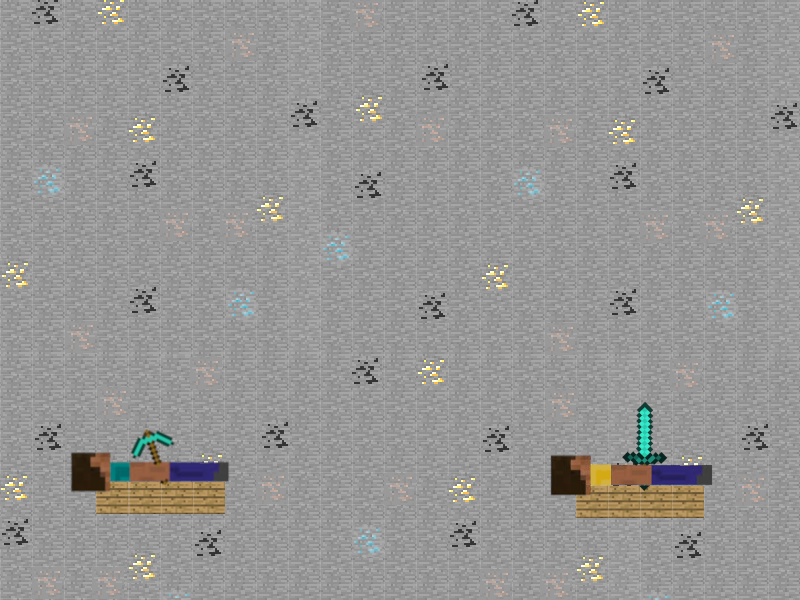
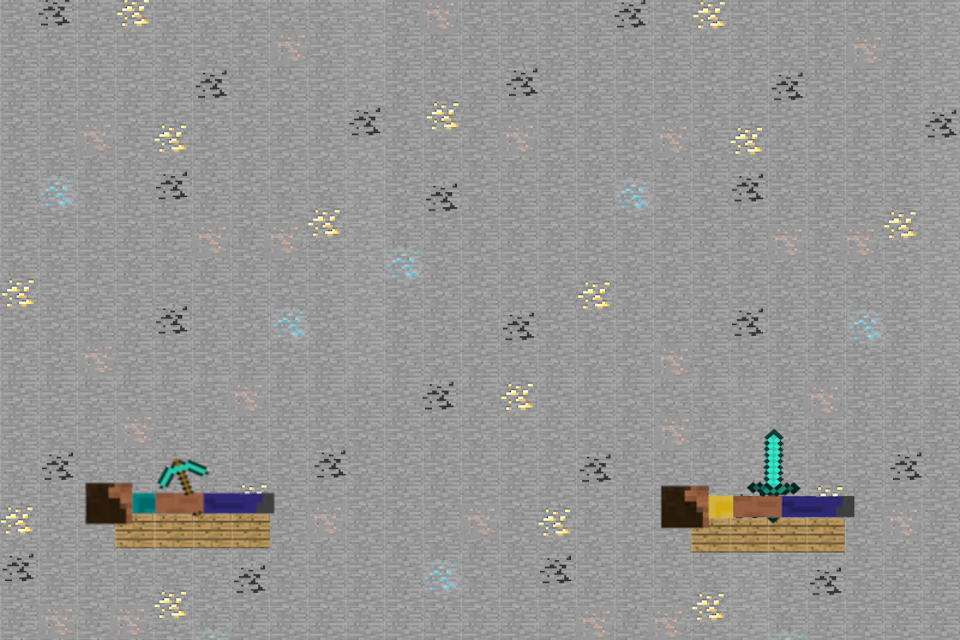
nic fick

diff --git a/Website-P-Seminar/Caverunner/js/play.js b/Website-P-Seminar/Caverunner/js/play.js
@@ -80,8 +80,30 @@ var playState = {
 	} else {
 		var schule = false;
 	}
-	console.log('success')
+
 },
+
+pause: function() {
+	game.paused = true;
+	this.input.disabled = true;
+
+	this.game.physics.gravity.y = 0;
+
+	player1.body.velocity.x = 0;
+
+	player1.body.velocity.y = 0;
+
+	player2.body.velocity.x = 0;
+
+	player2.body.velocity.y = 0;
+
+	player3.body.velocity.x = 0;
+
+	player3.body.velocity.y = 0;
+
+		console.log('success')
+},
+
 	create: function () {
 		var location = this.getlocation();
 		this.game.time.events.repeat(Phaser.Timer.SECOND * 6.4, 10000, this.timer1Up, this);
@@ -116,7 +138,7 @@ var playState = {
 		for (var i = 0; i < 1000; i++)
 		{
 			var unten = unten + i;
-			unten = platforms.create(i*300, 600,'flaeche');
+			unten = platforms.create(i*300, 639.9,'flaeche');
 			unten.body.immovable = true;
 		}
 		for (var i = 0; i < 1000; i++)
@@ -222,6 +244,7 @@ var playState = {
 		ButtonGravity = game.input.keyboard.addKey(Phaser.Keyboard.N);
 
 		var bau = this.platform3();
+		var pausebutton = this.game.add.button(870, 30, 'pausebutton', this.pause, this, 1, 0);
 	},
 
 
@@ -605,113 +628,113 @@ var playState = {
 	{
 		var testen = this.schule();
 
-		block1 = platforms.create(c * 960, 18 * 32,'2b');
+		block1 = platforms.create(c * 960, 19 * 32,'2b');
 
 		block1.body.immovable = true;
 
-		block2 = platforms.create(c * 960 + 5 * 32, 18 * 32,'2b');
+		block2 = platforms.create(c * 960 + 5 * 32, 19 * 32,'2b');
 
 		block2.body.immovable = true;
 
-		block3 = platforms.create(c * 960 + 12 * 32, 18 * 32,'1');
+		block3 = platforms.create(c * 960 + 12 * 32, 19 * 32,'1');
 
 		block3.body.immovable = true;
 
-		block4 = platforms.create(c * 960 + 3 * 32, 17 * 32,'1');
+		block4 = platforms.create(c * 960 + 3 * 32, 18 * 32,'1');
 
 		block4.body.immovable = true;
 
-		block5 = platforms.create(c * 960 + 8 * 32, 17 * 32,'1');
+		block5 = platforms.create(c * 960 + 8 * 32, 18 * 32,'1');
 
 		block5.body.immovable = true;
 
-		block6 = platforms.create(c * 960 + 13 * 32, 16 * 32,'2b');
+		block6 = platforms.create(c * 960 + 13 * 32, 17 * 32,'2b');
 
 		block6.body.immovable = true;
 
-		block7 = platforms.create(c * 960 + 4 * 32, 15 * 32,'2b');
+		block7 = platforms.create(c * 960 + 4 * 32, 16 * 32,'2b');
 
 		block7.body.immovable = true;
 
-		block8 = platforms.create(c * 960 + 0 * 32, 13 * 32,'2h');
+		block8 = platforms.create(c * 960 + 0 * 32, 14 * 32,'2h');
 
 		block8.body.immovable = true;
 
-		block9 = platforms.create(c * 960 + 8 * 32, 14 * 32,'1');
+		block9 = platforms.create(c * 960 + 8 * 32, 15 * 32,'1');
 
 		block9.body.immovable = true;
 
-		block10 = platforms.create(c * 960 + 12 * 32, 14 * 32,'1');
+		block10 = platforms.create(c * 960 + 12 * 32, 15 * 32,'1');
 
 		block10.body.immovable = true;
 
-		block11 = platforms.create(c * 960 + 2 * 32, 13 * 32,'1');
+		block11 = platforms.create(c * 960 + 3 * 32, 14 * 32,'1');
 
 		block11.body.immovable = true;
 
 	if (schule == true) {
-		klausur1 = klausuren.create(c * 960 + 4 * 32, 12 * 32, 'klausur');
+		klausur1 = klausuren.create(c * 960 + 4 * 32, 13 * 32, 'klausur');
 	} else if (schule == false) {
-		boost1 = booster.create(c * 960 + 4 * 32, 12 * 32, 'booster');
+		boost1 = booster.create(c * 960 + 4 * 32, 13 * 32, 'booster');
 	}
 
-		block12 = platforms.create(c * 960 + 7 * 32, 11 * 32,'2b');
+		block12 = platforms.create(c * 960 + 7 * 32, 12 * 32,'2b');
 
 		block12.body.immovable = true;
 
-		block13 = platforms.create(c * 960 + 3 * 32, 8 * 32,'3h');
+		block13 = platforms.create(c * 960 + 4 * 32, 9 * 32,'3h');
 
 		block13.body.immovable = true;
 
-		block14 = platforms.create(c * 960 + 12 * 32, 10 * 32,'3b');
+		block14 = platforms.create(c * 960 + 12 * 32, 11 * 32,'3b');
 
 		block14.body.immovable = true;
 
-		block15 = platforms.create(c * 960 + 1 * 32, 9* 32,'3b');
+		block15 = platforms.create(c * 960 + 1 * 32, 10* 32,'3b');
 
 		block15.body.immovable = true;
 
-		block16 = platforms.create(c * 960 + 6 * 32, 8 * 32,'2h');
+		block16 = platforms.create(c * 960 + 6 * 32, 9 * 32,'2h');
 
 		block16.body.immovable = true;
 
-		block17 = platforms.create(c * 960 + 7 * 32, 8 * 32,'1');
+		block17 = platforms.create(c * 960 + 7 * 32, 9 * 32,'1');
 
 		block17.body.immovable = true;
 
-		block18 = platforms.create(c * 960 + 8 * 32, 8 * 32,'3b');
+		block18 = platforms.create(c * 960 + 8 * 32, 9 * 32,'3b');
 
 		block18.body.immovable = true;
 
-		block19 = platforms.create(c * 960 + 4 * 32, 7 * 32,'2b');
+		block19 = platforms.create(c * 960 + 4 * 32, 7 * 32,'2h');
 
 		block19.body.immovable = true;
 
-		block20 = platforms.create(c * 960 + 1 * 32, 5 * 32,'1');
+		block20 = platforms.create(c * 960 + 1 * 32, 6 * 32,'1');
 
 		block20.body.immovable = true;
 
-		block21 = platforms.create(c * 960 + 8 * 32, 5 * 32,'2b');
+		block21 = platforms.create(c * 960 + 8 * 32, 6 * 32,'2b');
 
 		block21.body.immovable = true;
 
-		block22 = platforms.create(c * 960 + 13 * 32, 5 * 32,'2b');
+		block22 = platforms.create(c * 960 + 13 * 32, 6 * 32,'2b');
 
 		block22.body.immovable = true;
 
-		block23 = platforms.create(c * 960 + 0 * 32, 3 * 32,'2h');
+		block23 = platforms.create(c * 960 + 0 * 32, 4 * 32,'2h');
 
 		block23.body.immovable = true;
 
-		block24 = platforms.create(c * 960 + 6 * 32, 4 * 32,'1');
+		block24 = platforms.create(c * 960 + 6 * 32, 5 * 32,'1');
 
 		block24.body.immovable = true;
 
-		block25 = platforms.create(c * 960 + 11 * 32, 4 * 32,'1');
+		block25 = platforms.create(c * 960 + 11 * 32, 4 * 32,'2h');
 
 		block25.body.immovable = true;
 
-		block26 = platforms.create(c * 960 + 5 * 32, 3 * 32,'2b');
+		block26 = platforms.create(c * 960 + 5 * 32, 4 * 32,'2b');
 
 		block26.body.immovable = true;
 
@@ -720,12 +743,12 @@ var playState = {
 		block27.body.immovable = true;
 
 	if (schule == true) {
-	klausur1 = klausuren.create(c * 960 + 6 * 32, 2 * 32, 'klausur');
+	klausur1 = klausuren.create(c * 960 + 6 * 32, 3 * 32, 'klausur');
 } else if (schule == false) {
-	boost1 = booster.create(c * 960 + 6 * 32, 2 * 32, 'booster');
+	boost1 = booster.create(c * 960 + 6 * 32, 3 * 32, 'booster');
 }
 
-		block28 = platforms.create(c * 960 + 7 * 32, 1 * 32,'1');
+		block28 = platforms.create(c * 960 + 7 * 32, 2 * 32,'1');
 
 		block28.body.immovable = true;
 
@@ -749,6 +772,9 @@ var playState = {
 
 		block33.body.immovable = true;
 
+		block33 = platforms.create(c * 960 + 10 * 32, 19 * 32,'1');
+
+		block33.body.immovable = true;
 		c += 1;
 
 		timer1 = 0;

diff --git a/Website-P-Seminar/Caverunner/js/menu.js b/Website-P-Seminar/Caverunner/js/menu.js
@@ -6,7 +6,7 @@
   create: function () {
     var menuback = game.add.image(0, 0, 'backgroundmenu');
     //Hier erscheint dann der Name des SPiels
-    var nameLabel = game.add.text(100, 150, "Caverunner", {font: "100px Courier", fill: "#fcbc38"});
+    var nameLabel = game.add.text(200, 150, "Caverunner", {font: "100px Courier", fill: "#fcbc38"});
     //hier wird der playbutton eingefügt, ist im moment noch hässlich aber nur zum testen
   //  var button = game.add.button(game.world.centerX = 100, 300, "playbutton", this.actionOnclick, this);
 
@@ -20,7 +20,7 @@
     //var pkey = game.input.keyboard.addKey(Phaser.Keyboard.P);
     //pkey.onDown.addOnce(this.start, this);
 
-     var playButton = this.game.add.button(370, 300, 'playbutton', this.start, this, 1, 0);
+     var playButton = this.game.add.button(450, 300, 'playbutton', this.start, this, 1, 0);
   //var location = this.getlocation();
 
 },

diff --git a/Website-P-Seminar/Caverunner/js/gameover.js b/Website-P-Seminar/Caverunner/js/gameover.js
@@ -11,8 +11,8 @@ var gameoverState = {
     localStorage.setItem(localStorageName, highScore);
     var backOver = game.add.image(0, 0, 'backgroundgameover');
     var text = game.add.text(140, 110, "Game Over\n\nDein score: " + score + "\nBest score: " + highScore , {font: '50px Verdana',  fill: '	#000'});
-    var restartButton = this.game.add.button(370, 340, 'restartbutton', this.restart, this, 1, 0);
-    var menuButton = this.game.add.button(370, 420, 'menubutton', this.backto, this, 1, 0);
+    var restartButton = this.game.add.button(450, 340, 'restartbutton', this.restart, this, 1, 0);
+    var menuButton = this.game.add.button(450, 420, 'menubutton', this.backto, this, 1, 0);
   },
 restart: function() {
     game.state.start("play");

diff --git a/Website-P-Seminar/index.html b/Website-P-Seminar/index.html
@@ -74,7 +74,7 @@
       <div class="tm-page-content-width tm-flex-col tm-gallery-content">
         <div class="tm-content-box-left">
           <h2 class="tm-section-title tm-blue-text">CAVERUNNER</h2>
-          <iframe height="620" width="820" src="Caverunner/index.html" frameborder="0">
+          <iframe height="660" width="980" src="Caverunner/index.html" frameborder="0">
             <a href="Caverunner/index.html">Sorry ging nicht </a>
           </iframe>
         </div>

diff --git a/Website-P-Seminar/Caverunner/js/preload.js b/Website-P-Seminar/Caverunner/js/preload.js
@@ -42,7 +42,8 @@ preload: function () {
     game.load.spritesheet('playbutton', 'assets/playbutton.png', 64, 64);
     game.load.spritesheet('restartbutton', 'assets/restartbutton.png', 64, 64);
     game.load.spritesheet('menubutton', 'assets/menubutton.png', 64, 64);
-  
+    game.load.spritesheet('pausebutton', 'assets/pausebutton.png', 64, 64);
+
 },
 create: function () {
 game.state.start("menu")

diff --git a/Website-P-Seminar/Caverunner/js/game.js b/Website-P-Seminar/Caverunner/js/game.js
@@ -1,7 +1,7 @@
 //game.js erstellt die ganzen states
 //var Caverunner = Caverunner || {};
 
-var game = new Phaser.Game(800, 600, Phaser.AUTO, 'gameDiv');
+var game = new Phaser.Game(960, 640, Phaser.AUTO, 'gameDiv');
 game.state.add("boot", bootState);
 game.state.add("preload", preloadState);
 game.state.add("menu", menuState);
